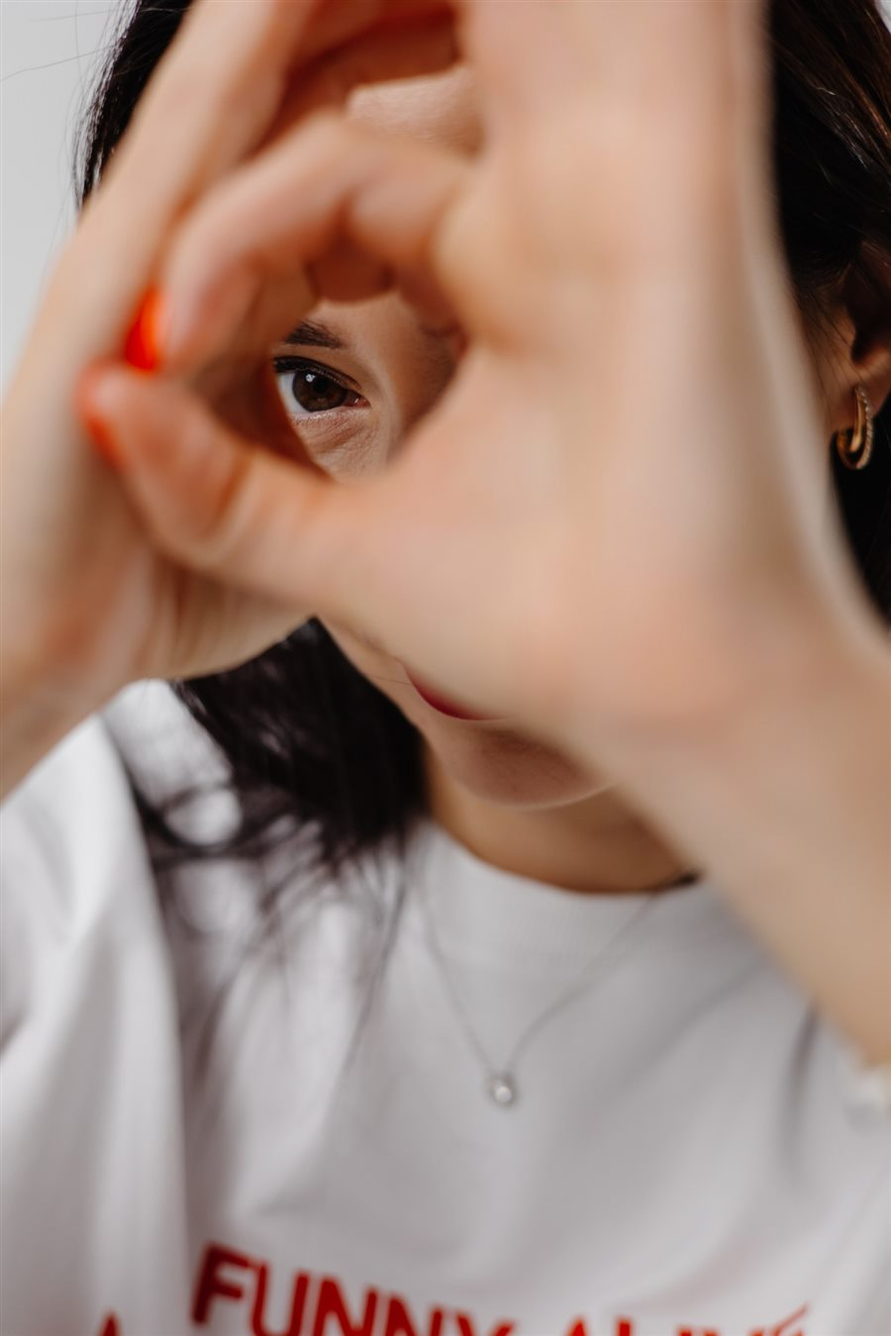
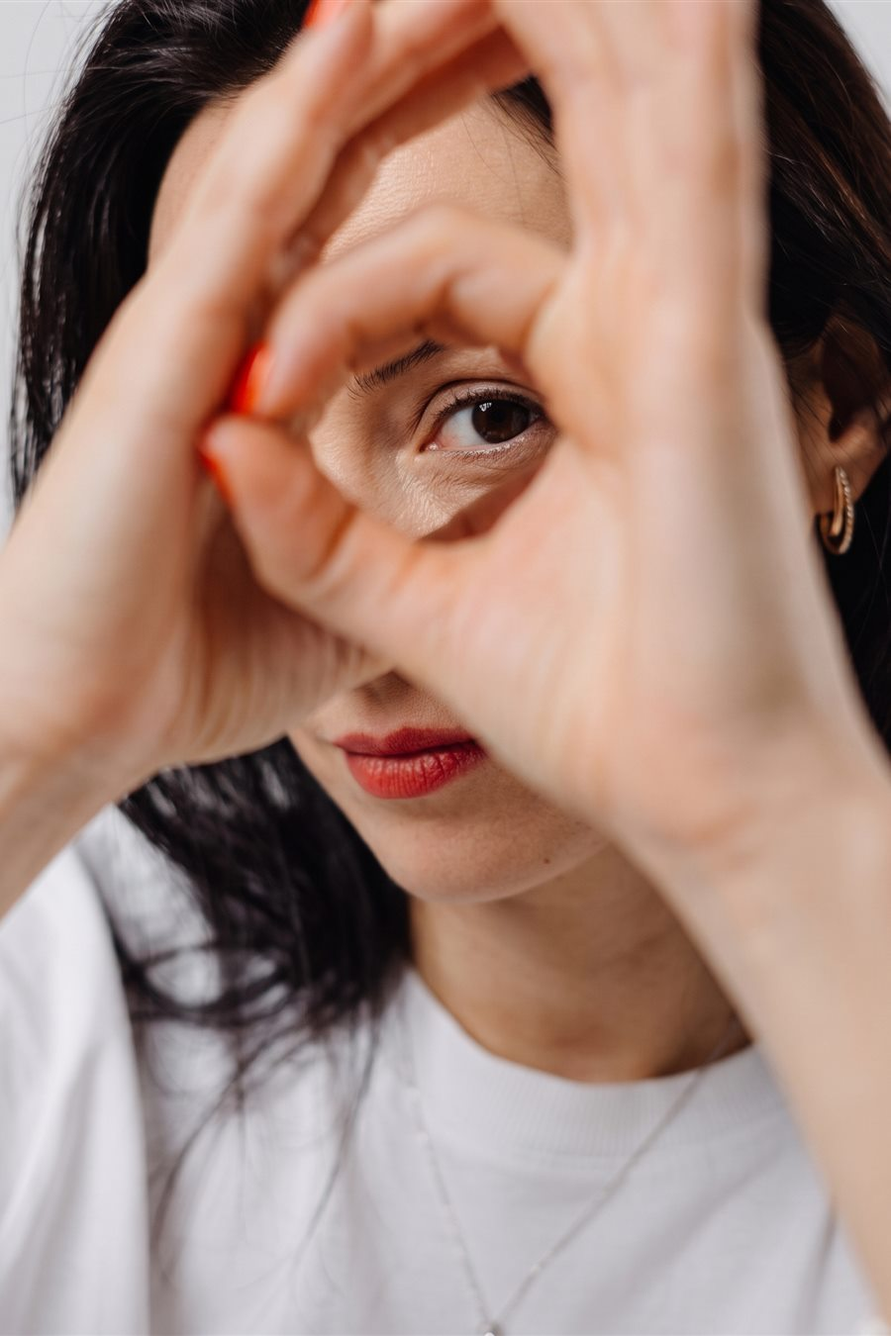
Концепт для портфоліо: «Норма Фінанс»
- Назва Happy Finance замінена на «Норма Фінанс», напис логотипа — текстом
- Імена засновниці й команди змінено, нові фото команди і засновниці
- Контакти: телефон, Telegram та Instagram Анастасії
- Прибрано блок з міні-грою (неконверсійний)
- Оновлено картинку для соцмереж

diff --git a/index.html b/index.html
@@ -3,24 +3,24 @@
 <head>
 <meta charset="utf-8">
 <meta name="viewport" content="width=device-width, initial-scale=1">
-<title>Бухгалтерський супровід ФОП і ТОВ — Happy Finance</title>
-<meta name="description" content="Happy Finance: бухгалтерський і фінансовий супровід ФОП та ТОВ. Беремо на себе облік, звітність і податки, а ви бачите реальні показники бізнесу. Підберемо формат за 1 хвилину.">
+<title>Бухгалтерський супровід ФОП і ТОВ — Норма Фінанс</title>
+<meta name="description" content="Норма Фінанс: бухгалтерський і фінансовий супровід ФОП та ТОВ. Беремо на себе облік, звітність і податки, а ви бачите реальні показники бізнесу. Підберемо формат за 1 хвилину.">
 <meta name="theme-color" content="#102662">
 <link rel="canonical" href="https://prinkovska.github.io/finance/">
 <meta property="og:type" content="website">
 <meta property="og:locale" content="uk_UA">
-<meta property="og:site_name" content="Happy Finance">
-<meta property="og:title" content="Happy Finance: бухгалтерський супровід ФОП і ТОВ">
+<meta property="og:site_name" content="Норма Фінанс">
+<meta property="og:title" content="Норма Фінанс: бухгалтерський супровід ФОП і ТОВ">
 <meta property="og:description" content="Облік, звітність і податки під ваш бізнес. Управління бізнесом починається з цифр.">
 <meta property="og:url" content="https://prinkovska.github.io/finance/">
 <meta property="og:image" content="https://prinkovska.github.io/finance/img/og-cover.jpg">
 <meta property="og:image:width" content="1200">
 <meta property="og:image:height" content="630">
 <meta name="twitter:card" content="summary_large_image">
-<meta name="twitter:title" content="Happy Finance: бухгалтерський супровід ФОП і ТОВ">
+<meta name="twitter:title" content="Норма Фінанс: бухгалтерський супровід ФОП і ТОВ">
 <meta name="twitter:description" content="Облік, звітність і податки під ваш бізнес. Управління бізнесом починається з цифр.">
 <meta name="twitter:image" content="https://prinkovska.github.io/finance/img/og-cover.jpg">
-<script type="application/ld+json">{"@context":"https://schema.org","@type":"ProfessionalService","name":"Happy Finance","description":"Бухгалтерський і фінансовий супровід ФОП та ТОВ","url":"https://prinkovska.github.io/finance/","telephone":"+380663568040","image":"https://prinkovska.github.io/finance/img/og-cover.jpg","sameAs":["https://t.me/MariiaPanchenko_ua"],"areaServed":"UA"}</script>
+<script type="application/ld+json">{"@context":"https://schema.org","@type":"ProfessionalService","name":"Норма Фінанс","description":"Бухгалтерський і фінансовий супровід ФОП та ТОВ","url":"https://prinkovska.github.io/finance/","telephone":"+380505986200","image":"https://prinkovska.github.io/finance/img/og-cover.jpg","sameAs":["https://t.me/Anactacya_stacyland"],"areaServed":"UA"}</script>
 <link rel="icon" type="image/png" sizes="32x32" href="img/favicon-32.png">
 <link rel="icon" type="image/png" sizes="64x64" href="img/favicon-64.png">
 <link rel="apple-touch-icon" href="img/favicon-180.png">
@@ -33,12 +33,12 @@
 
 <header class="top" id="top">
   <div class="top__in wrap">
-    <a class="brand" href="#hero" aria-label="Happy Finance">
+    <a class="brand" href="#hero" aria-label="Норма Фінанс">
       <span class="brand__mark" aria-hidden="true">
         <img class="brand__frame" src="img/logo-frame.png" alt="">
         <img class="brand__h" src="img/logo-h.png" alt="">
       </span>
-      <img class="brand__word" src="img/logo-word.png" alt="">
+      <span class="brand__word" aria-hidden="true">Норма<br>Фінанс</span>
     </a>
     <nav class="menu" id="menu" aria-label="Головне меню">
       <a href="#services">Послуги</a>
@@ -49,7 +49,7 @@
       <a href="#contacts">Контакти</a>
     </nav>
     <div class="top__r">
-      <a class="top__tel" href="tel:+380663568040">066-356-80-40</a>
+      <a class="top__tel" href="tel:+380505986200">050-598-62-00</a>
       <a class="btn btn--sm" href="#lead" data-open="lead">Залишити заявку</a>
       <button class="burger" id="burger" type="button" aria-label="Меню" aria-expanded="false"><span></span><span></span></button>
     </div>
@@ -110,7 +110,7 @@
       <li class="card rv" style="--d:.16s" data-n="03">
         <svg class="card__ico" viewBox="0 0 24 24" aria-hidden="true"><rect x="3" y="7" width="18" height="13"/><path d="M9 7V4h6v3M3 13h18"/></svg>
         <h3>Радить той, хто сам керував бізнесом</h3>
-        <p>Марія керувала підприємствами в&nbsp;ресторанному бізнесі, виробництві й&nbsp;дистрибуції, тому радить із&nbsp;розумінням, як&nbsp;рішення вплине на&nbsp;ваш прибуток і&nbsp;команду.</p>
+        <p>Олена керувала підприємствами в&nbsp;ресторанному бізнесі, виробництві й&nbsp;дистрибуції, тому радить із&nbsp;розумінням, як&nbsp;рішення вплине на&nbsp;ваш прибуток і&nbsp;команду.</p>
       </li>
       <li class="card rv" style="--d:.24s" data-n="04">
         <svg class="card__ico" viewBox="0 0 24 24" aria-hidden="true"><path d="M4 7h10M18 7h2M4 17h2M10 17h10"/><circle cx="16" cy="7" r="2"/><circle cx="8" cy="17" r="2"/></svg>
@@ -228,7 +228,7 @@
       <!-- TODO клієнтка: підтвердити цитату (взято з її тексту про підхід) -->
       <blockquote class="mani__q">
         <p class="mani__big" id="maniBig">«Без&nbsp;цифр управління бізнесом&nbsp;— це&nbsp;не&nbsp;управління, а&nbsp;ілюзія.»</p>
-        <footer class="mani__by rv"><b>Марія&nbsp;Панченко</b><span>засновниця Happy&nbsp;Finance</span></footer>
+        <footer class="mani__by rv"><b>Олена&nbsp;Коваленко</b><span>засновниця Норма&nbsp;Фінанс</span></footer>
       </blockquote>
     </div>
   </div>
@@ -270,39 +270,6 @@
   <i class="tab t34" style="--tc:var(--paper)" aria-hidden="true"></i>
 </section>
 
-<!-- 7. ГРА «ЗВЕДИ БАЛАНС» -->
-<section class="sec game gg" id="game">
-  <div class="gg__bg" aria-hidden="true"><div class="gg__lines"></div><div class="gg__glow"></div></div>
-  <div class="wrap game__in">
-    <div class="game__intro rv">
-      <div class="game__fig" id="gFig" aria-hidden="true"><img src="img/maria-4-fade.png" alt=""></div>
-      <p class="eyebrow">Перерва на&nbsp;хвилину</p>
-      <h2 class="h2">Зведіть <em>баланс</em></h2>
-      <p class="game__lead">Операції падають, ви&nbsp;розкладаєте їх: надходження, витрати чи&nbsp;податки. Так виглядає щоденна робота&nbsp;бухгалтера.</p>
-      <ul class="game__hud">
-        <li><span>Рахунок</span><b><i id="gScore">0</i>/15</b></li>
-        <li><span>Життя</span><b class="lives" id="gLives" aria-label="Життя"><i></i><i></i><i></i></b></li>
-      </ul>
-      <p class="game__keys">На&nbsp;комп’ютері: клавіші <kbd>1</kbd> <kbd>2</kbd> <kbd>3</kbd></p>
-    </div>
-    <div class="game__box rv" style="--d:.1s">
-      <div class="lane" id="lane">
-        <div class="lane__grid" aria-hidden="true"></div>
-        <div class="op" id="op" hidden><span class="op__t"></span><b class="op__a"></b></div>
-        <div class="lane__floor" aria-hidden="true"><span>Баланс</span></div>
-        <div class="game__screen on" id="gScreen"></div>
-      </div>
-      <div class="game__btns" id="gBtns">
-        <button type="button" data-c="income"><kbd>1</kbd>Надходження</button>
-        <button type="button" data-c="expense"><kbd>2</kbd>Витрати</button>
-        <button type="button" data-c="tax"><kbd>3</kbd>Податки</button>
-      </div>
-      <p class="sr-only" id="gLive" aria-live="polite"></p>
-    </div>
-  </div>
-  <i class="tab t66" style="--tc:var(--navy)" aria-hidden="true"></i>
-</section>
-
 <!-- 8. ПІДІБРАТИ ПАКЕТ (квіз) -->
 <section class="sec quiz" id="quiz">
   <div class="wrap quiz__in">
@@ -326,8 +293,8 @@
   <div class="gg__bg" aria-hidden="true"><div class="gg__lines"></div><div class="gg__glow"></div></div>
   <div class="wrap founder__in">
     <figure class="founder__ph rv">
-      <img src="img/maria-portrait-web.jpg" alt="Марія Панченко, засновниця Happy Finance">
-      <figcaption><b>Марія&nbsp;Панченко</b><span>засновниця Happy&nbsp;Finance</span></figcaption>
+      <img src="img/maria-portrait-web.jpg" alt="Олена Коваленко, засновниця Норма Фінанс">
+      <figcaption><b>Олена&nbsp;Коваленко</b><span>засновниця Норма&nbsp;Фінанс</span></figcaption>
     </figure>
     <div class="founder__txt">
       <p class="eyebrow rv">Засновниця</p>
@@ -360,25 +327,23 @@
     </div>
     <ul class="team__grid">
       <li class="tcard rv" data-tab="01">
-        <figure class="tcard__ph" style="--img:url(img/team-evgenia.jpg)"><img src="img/team-evgenia.jpg" alt="Євгенія Мазепа"><span class="tcard__stamp">Головний бухгалтер</span></figure>
-        <h3>Євгенія Мазепа</h3>
+        <figure class="tcard__ph" style="--img:url(img/team-iryna.jpg)"><img src="img/team-iryna.jpg" alt="Ірина Бондар"><span class="tcard__stamp">Головний бухгалтер</span></figure>
+        <h3>Ірина Бондар</h3>
         <p>Веде облік від&nbsp;первинних документів до&nbsp;звітності. Досвід у&nbsp;торгівлі, будівництві та&nbsp;на&nbsp;посаді фінансового директора.</p>
       </li>
       <li class="tcard rv" style="--d:.08s" data-tab="02">
-        <figure class="tcard__ph" style="--img:url(img/team-karyna.jpg)"><img src="img/team-karyna.jpg" alt="Карина Омельченко"><span class="tcard__stamp">Первинні документи&nbsp;·&nbsp;ПРРО</span></figure>
-        <h3>Карина Омельченко</h3>
+        <figure class="tcard__ph" style="--img:url(img/team-kateryna.jpg)"><img src="img/team-kateryna.jpg" alt="Катерина Мельник"><span class="tcard__stamp">Первинні документи&nbsp;·&nbsp;ПРРО</span></figure>
+        <h3>Катерина Мельник</h3>
         <p>Веде щоденні операції: первинні документи та&nbsp;ПРРО. Ви&nbsp;надсилаєте документи, ми&nbsp;оформлюємо їх&nbsp;без&nbsp;пропусків.</p>
       </li>
       <li class="tcard rv" style="--d:.16s" data-tab="03">
-        <!-- TODO клієнтка: додати фото Юлії -->
-        <figure class="tcard__ph tcard__mono"><span class="tcard__ini" aria-hidden="true">ЮА</span><span class="tcard__stamp">Зарплата</span></figure>
-        <h3>Юлія Авер’янова</h3>
+        <figure class="tcard__ph" style="--img:url(img/team-tetiana.jpg)"><img src="img/team-tetiana.jpg" alt="Тетяна Савчук"><span class="tcard__stamp">Зарплата</span></figure>
+        <h3>Тетяна Савчук</h3>
         <p>Понад 20&nbsp;років у&nbsp;бухгалтерії. Відповідає за&nbsp;нарахування зарплати та кадрові&nbsp;розрахунки.</p>
       </li>
       <li class="tcard rv" style="--d:.24s" data-tab="04">
-        <!-- TODO клієнтка: додати фото Надії -->
-        <figure class="tcard__ph tcard__mono"><span class="tcard__ini" aria-hidden="true">НГ</span><span class="tcard__stamp">Закупівлі ·&nbsp;первинні&nbsp;документи</span></figure>
-        <h3>Надія Гончаренко</h3>
+        <figure class="tcard__ph" style="--img:url(img/team-oksana.jpg)"><img src="img/team-oksana.jpg" alt="Оксана Литвин"><span class="tcard__stamp">Закупівлі ·&nbsp;первинні&nbsp;документи</span></figure>
+        <h3>Оксана Литвин</h3>
         <p>Керувала відділом обліку первинних документів (13&nbsp;людей у&nbsp;трьох філіях) і&nbsp;закупівлями. Допомагає навести лад у&nbsp;документах і&nbsp;поставках.</p>
       </li>
     </ul>
@@ -400,7 +365,7 @@
       <p class="eyebrow">FAQ</p>
       <h2 class="h2">Питання, які&nbsp;ставлять <em>найчастіше</em></h2>
       <p class="faq__lead">Не&nbsp;знайшли свого питання? Напишіть у&nbsp;Telegram, відповімо в&nbsp;робочий&nbsp;час.</p>
-      <a class="btn btn--ghost btn--lg" href="https://t.me/MariiaPanchenko_ua" target="_blank" rel="noopener">Написати в&nbsp;Telegram</a>
+      <a class="btn btn--ghost btn--lg" href="https://t.me/Anactacya_stacyland" target="_blank" rel="noopener">Написати в&nbsp;Telegram</a>
     </div>
     <div class="faq__list" id="faqList">
       <div class="qa rv open"><button class="qa__q" type="button" aria-expanded="true"><span>Як&nbsp;передати облік від іншого&nbsp;бухгалтера?</span><i aria-hidden="true"></i></button><div class="qa__a"><div><p>Ви&nbsp;надаєте доступ до&nbsp;документів і&nbsp;звітності, ми&nbsp;перевіряємо, що&nbsp;передано, і&nbsp;погоджуємо дату старту. З&nbsp;цієї дати облік&nbsp;ведемо&nbsp;ми.</p></div></div></div>
@@ -423,8 +388,8 @@
       <h2 class="h2">Розкажіть про&nbsp;свій&nbsp;бізнес, <em>а&nbsp;ми&nbsp;скажемо, з&nbsp;чого&nbsp;почати</em></h2>
       <p class="cta__lead rv">Залиште телефон, і&nbsp;ми&nbsp;зв’яжемося з&nbsp;вами у&nbsp;робочий час. Можна одразу написати в&nbsp;Telegram.</p>
       <ul class="cta__links rv">
-        <li><span>Телефон</span><a href="tel:+380663568040">066-356-80-40</a></li>
-        <li><span>Telegram</span><a href="https://t.me/MariiaPanchenko_ua" target="_blank" rel="noopener">@MariiaPanchenko_ua</a></li>
+        <li><span>Телефон</span><a href="tel:+380505986200">050-598-62-00</a></li>
+        <li><span>Telegram</span><a href="https://t.me/Anactacya_stacyland" target="_blank" rel="noopener">@Anactacya_stacyland</a></li>
         <li><span>Графік</span><b>Пн–Пт, до&nbsp;17:00</b></li>
       </ul>
     </div>
@@ -445,9 +410,9 @@
 <footer class="foot after-tab" id="footer">
   <div class="wrap foot__in">
     <div class="foot__brand">
-      <a class="brand brand--static" href="#hero" aria-label="Happy Finance">
+      <a class="brand brand--static" href="#hero" aria-label="Норма Фінанс">
         <span class="brand__mark" aria-hidden="true"><img src="img/logo-frame.png" alt=""><img src="img/logo-h.png" alt=""></span>
-        <img class="brand__word" src="img/logo-word.png" alt="">
+        <span class="brand__word" aria-hidden="true">Норма<br>Фінанс</span>
       </a>
       <p>Фінансово-бухгалтерський супровід ФОП&nbsp;і&nbsp;ТОВ.</p>
     </div>
@@ -455,14 +420,14 @@
       <a href="#services">Послуги</a><a href="#about">Про&nbsp;нас</a><a href="#team">Команда</a><a href="#quiz">Підібрати пакет</a><a href="#faq">FAQ</a><a href="#contacts">Контакти</a>
     </nav>
     <ul class="foot__contacts">
-      <li><a href="tel:+380663568040">066-356-80-40</a></li>
-      <li><a href="https://t.me/MariiaPanchenko_ua" target="_blank" rel="noopener">Telegram</a></li>
-      <li><a href="https://instagram.com/Mariia_Panchenko_ua" target="_blank" rel="noopener">Instagram</a></li>
+      <li><a href="tel:+380505986200">050-598-62-00</a></li>
+      <li><a href="https://t.me/Anactacya_stacyland" target="_blank" rel="noopener">Telegram</a></li>
+      <li><a href="https://www.instagram.com/anactacya_happy_stacyland/" target="_blank" rel="noopener">Instagram</a></li>
       <li>Пн–Пт, до&nbsp;17:00</li>
     </ul>
   </div>
   <div class="wrap foot__bar">
-    <span>© 2026&nbsp;Happy&nbsp;Finance</span>
+    <span>© 2026&nbsp;Норма&nbsp;Фінанс</span>
     <a href="#privacy" data-open="privacy">Політика конфіденційності</a>
   </div>
 </footer>
@@ -490,7 +455,7 @@
     <label>Телефон<input name="phone" type="tel" autocomplete="tel" inputmode="tel" placeholder="+380" required></label>
     <p class="modal__err" id="leadErr" hidden>Вкажіть, будь ласка, ім’я&nbsp;та&nbsp;телефон у&nbsp;форматі&nbsp;+380…</p>
     <button class="btn btn--lg" type="submit">Надіслати</button>
-    <a class="modal__tg" href="https://t.me/MariiaPanchenko_ua" target="_blank" rel="noopener">Або напишіть у&nbsp;Telegram</a>
+    <a class="modal__tg" href="https://t.me/Anactacya_stacyland" target="_blank" rel="noopener">Або напишіть у&nbsp;Telegram</a>
     <div class="modal__ok" id="leadOk" hidden><b>Дякуємо!</b><span>Ми&nbsp;зв’яжемося з&nbsp;вами у&nbsp;робочий&nbsp;час.</span></div>
   </form>
 </div>
@@ -519,11 +484,11 @@
 </div>
 
 <nav class="fab" id="fab" aria-label="Швидкий зв'язок">
-  <a class="fab__b fab__b--tg" href="https://t.me/MariiaPanchenko_ua" target="_blank" rel="noopener" aria-label="Написати в Telegram">
+  <a class="fab__b fab__b--tg" href="https://t.me/Anactacya_stacyland" target="_blank" rel="noopener" aria-label="Написати в Telegram">
     <svg viewBox="0 0 24 24" aria-hidden="true"><path d="M21 4 3 11l5.5 2L10 19l3-3.5 4.5 3.3L21 4Z"/><path d="m8.5 13 8-5.5"/></svg><span>Telegram</span>
   </a>
-  <a class="fab__b fab__b--tel" href="tel:+380663568040" aria-label="Зателефонувати">
-    <svg viewBox="0 0 24 24" aria-hidden="true"><path d="M5 4h4l2 5-2.5 1.5a11 11 0 0 0 5 5L15 13l5 2v4a2 2 0 0 1-2 2A16 16 0 0 1 3 6a2 2 0 0 1 2-2Z"/></svg><span>066-356-80-40</span>
+  <a class="fab__b fab__b--tel" href="tel:+380505986200" aria-label="Зателефонувати">
+    <svg viewBox="0 0 24 24" aria-hidden="true"><path d="M5 4h4l2 5-2.5 1.5a11 11 0 0 0 5 5L15 13l5 2v4a2 2 0 0 1-2 2A16 16 0 0 1 3 6a2 2 0 0 1 2-2Z"/></svg><span>050-598-62-00</span>
   </a>
 </nav>
 <script src="script.js?v=61"></script>

diff --git a/script.js b/script.js
@@ -5,7 +5,7 @@ const NB_RE = /(^|[^\p{L}\p{N}])(в|у|і|й|з|із|зі|та|на|до|по|з
 const nb = s => {
   let r = String(s);
   for (let i = 0; i < 3; i++) r = r.replace(NB_RE, '$1$2\u00a0');
-  return r.replace(/(\d+) (?=\p{L})/gu, '$1\u00a0').replace(/Happy Finance/g, 'Happy\u00a0Finance').replace(/(\S) (\p{L}{1,3}[.?!…:]?)(\s*)$/u, '$1\u00a0$2$3')
+  return r.replace(/(\d+) (?=\p{L})/gu, '$1\u00a0').replace(/Норма Фінанс/g, 'Норма\u00a0Фінанс').replace(/(\S) (\p{L}{1,3}[.?!…:]?)(\s*)$/u, '$1\u00a0$2$3')
     .replace(/^(?=(?:\S+\s+){3,}\S)(.*?)(\S+) (\S+)(\s*)$/su, '$1$2\u00a0$3$4');
 };
 const nbHtml = h => h.replace(/>([^<>]+)</g, (m, t) => '>' + nb(t) + '<');
@@ -327,7 +327,7 @@ addEventListener('scroll', onScroll, { passive: true }); addEventListener('resiz
     op.classList.add(ok ? 'ok' : 'bad');
     if (!ok && wrongNote) op.querySelector('.op__t').textContent = cur.t + ' → ' + LABEL[cur.c];
     live.textContent = ok ? 'Вірно' : 'Невірно: ' + LABEL[cur.c];
-    const fig = $('#gFig');                          // Марія реагує: підстрибує на вірну відповідь, хитає головою на помилку
+    const fig = $('#gFig');                          // Олена реагує: підстрибує на вірну відповідь, хитає головою на помилку
     if (fig) { fig.classList.remove('happy', 'oops'); void fig.offsetWidth; fig.classList.add(ok ? 'happy' : 'oops'); }
     paint(); idx++;
     setTimeout(() => { op.hidden = true; next(); }, ok ? 380 : 1000);
@@ -367,7 +367,7 @@ addEventListener('scroll', onScroll, { passive: true }); addEventListener('resiz
     { q: 'Що зараз найважливіше?', o: ['Облік і звітність без клопоту', 'Зарплата й кадри', 'Цифри для управління бізнесом', 'Навести лад у процесах і документах'] }
   ];
   let step = 0, ans = [];
-  const TG = 'https://t.me/MariiaPanchenko_ua', TEL = 'tel:+380663568040';
+  const TG = 'https://t.me/Anactacya_stacyland', TEL = 'tel:+380505986200';
 
   function render() {
     stepEl.textContent = `Питання ${step + 1} з ${Q.length}`;
@@ -385,7 +385,7 @@ addEventListener('scroll', onScroll, { passive: true }); addEventListener('resiz
     const list = [...new Set(items)];
     const lc = s => s[0].toLowerCase() + s.slice(1);
     const profile = `${Q[0].o[b]}, ${lc(Q[1].o[tx])}, ${lc(Q[2].o[team])}`;
-    const text = `Доброго дня! Пройшов(ла) підбір пакета на сайті Happy Finance. Про мене: ${profile}. Найважливіше: ${lc(Q[3].o[goal])}. Хочу обговорити формат супроводу.`;
+    const text = `Доброго дня! Пройшов(ла) підбір пакета на сайті Норма Фінанс. Про мене: ${profile}. Найважливіше: ${lc(Q[3].o[goal])}. Хочу обговорити формат супроводу.`;
     body.innerHTML = `<div class="quiz__res"><h3>Ваш формат супроводу</h3><p class="quiz__sum">${nb(profile)}</p><ul class="quiz__list">${list.map((t, i) => `<li style="--i:${i}">${nb(t)}</li>`).join('')}</ul><div class="quiz__act"><a class="btn btn--lg" href="${TG}?text=${encodeURIComponent(text)}" target="_blank" rel="noopener">Написати в Telegram</a><a class="btn btn--ghost btn--lg quiz__tel" href="${TEL}">Зателефонувати</a></div><p class="quiz__note">${nb('Склад і вартість уточнимо після короткої розмови. Це попередній підбір.')}</p></div>`;
   }
   body.addEventListener('click', e => {
@@ -456,13 +456,13 @@ document.querySelectorAll('[data-count]').forEach(el => {
   const modal = $('#lead'); if (!modal) return;
   const form = $('#leadForm'), err = $('#leadErr'), ok = $('#leadOk');
   let opener = null;
-  const svcEl = $('#leadSvc'), tg = modal.querySelector('.modal__tg'), TG = 'https://t.me/MariiaPanchenko_ua';
+  const svcEl = $('#leadSvc'), tg = modal.querySelector('.modal__tg'), TG = 'https://t.me/Anactacya_stacyland';
   const open = el => {
     opener = el; modal.hidden = false; document.body.classList.add('lock');
     form.reset(); err.hidden = true; ok.hidden = true; form.querySelector('.btn').hidden = false;
     const svc = (el && el.dataset.service) || '';   // назва послуги, якщо відкрили з блоку «Послуги»
     svcEl.hidden = !svc; svcEl.textContent = svc ? 'Послуга: ' + svc : '';
-    tg.href = svc ? TG + '?text=' + encodeURIComponent('Доброго дня! Цікавить послуга на сайті Happy Finance: ' + svc + '. Хочу обговорити.') : TG;
+    tg.href = svc ? TG + '?text=' + encodeURIComponent('Доброго дня! Цікавить послуга на сайті Норма Фінанс: ' + svc + '. Хочу обговорити.') : TG;
     setTimeout(() => form.elements.name.focus(), 50);
   };
   const close = () => { modal.hidden = true; document.body.classList.remove('lock'); opener && opener.focus && opener.focus(); };
@@ -613,7 +613,7 @@ document.querySelectorAll('.btn:not(.btn--ghost):not(.btn--sm)').forEach(b => b.
 
 /* ================= ЗАВЕРШАЛЬНІ БЛОКИ ================= */
 
-/* ---------- Марія: лічильники ×4 та ~300 ---------- */
+/* ---------- Олена: лічильники ×4 та ~300 ---------- */
 (() => {
   const els = [...document.querySelectorAll('[data-to]')]; if (!els.length) return;
   const run = el => {
@@ -681,7 +681,7 @@ document.querySelectorAll('.btn:not(.btn--ghost):not(.btn--sm)').forEach(b => b.
   const dr = $('#drawer'); if (!dr) return;
   // TODO клієнтка: підтвердити тексти з кожною людиною. Лише професійні факти з наданих документів.
   const TEAM = [
-    { n: 'Євгенія Мазепа', role: 'Головний бухгалтер', img: 'img/team-evgenia.jpg',
+    { n: 'Ірина Бондар', role: 'Головний бухгалтер', img: 'img/team-iryna.jpg',
       lead: 'Веде бухгалтерію від первинних документів до звітності й знає бізнес з боку фінансового директора.',
       path: [
         ['Автомагазин', 'Менеджер і первинна бухгалтерія, допомога в розмитненні вантажів.'],
@@ -691,15 +691,15 @@ document.querySelectorAll('.btn:not(.btn--ghost):not(.btn--sm)').forEach(b => b.
         ['Фінансовий менеджер', 'Керувала грошовими потоками в нішевій сфері.']
       ],
       tags: ['Первинні документи', 'Податкова звітність', 'ТОВ і ФОП', 'Звірки з податковою', 'Управлінський облік'] },
-    { n: 'Карина Омельченко', role: 'Первинні документи, ПРРО', img: 'img/team-karyna.jpg',
+    { n: 'Катерина Мельник', role: 'Первинні документи, ПРРО', img: 'img/team-kateryna.jpg',
       lead: 'Веде щоденні операції: первинні документи та ПРРО. Ви надсилаєте документи, ми оформлюємо їх без пропусків.',
       path: [
         ['Роздрібна торгівля', 'Продавець, потім адміністратор.'],
         ['Агросектор', 'Бухгалтер у компанії аграрного напряму.'],
-        ['Happy\u00a0Finance', 'Первинні документи та ПРРО.']
+        ['Норма\u00a0Фінанс', 'Первинні документи та ПРРО.']
       ],
       tags: ['Первинні документи', 'ПРРО', 'Щоденні операції', 'Роздрібна торгівля'] },
-    { n: 'Юлія Авер’янова', role: 'Зарплата', ini: 'ЮА',
+    { n: 'Тетяна Савчук', role: 'Зарплата', img: 'img/team-tetiana.jpg',
       lead: 'Понад 20 років у бухгалтерії. Відповідає за нарахування зарплати та кадрові розрахунки.',
       path: [
         ['Початок шляху', 'Касир, потім головний бухгалтер на невеликому підприємстві.'],
@@ -707,7 +707,7 @@ document.querySelectorAll('.btn:not(.btn--ghost):not(.btn--sm)').forEach(b => b.
         ['Понад 15 років в одній компанії', 'Бухгалтер із дипломом спеціаліста.']
       ],
       tags: ['Зарплата', 'Кадрові розрахунки', 'Понад 20 років досвіду'] },
-    { n: 'Надія Гончаренко', role: 'Закупівлі, первинні документи', ini: 'НГ',
+    { n: 'Оксана Литвин', role: 'Закупівлі, первинні документи', img: 'img/team-oksana.jpg',
       lead: 'Керувала відділом обліку первинних документів і закупівлями. Допомагає навести лад у документах і поставках.',
       path: [
         ['Роздрібна мережа', 'Менеджер із закупівель: асортимент, ціноутворення, акції, переговори з постачальниками, документообіг.'],
@@ -764,7 +764,7 @@ document.querySelectorAll('.btn:not(.btn--ghost):not(.btn--sm)').forEach(b => b.
   });
 })();
 
-/* ---------- FAQ: ширина Марії від ліктя до ліктя = ширина найдовшого рядка заголовка ---------- */
+/* ---------- FAQ: ширина Олени від ліктя до ліктя = ширина найдовшого рядка заголовка ---------- */
 (() => {
   const fig = $('.faq__fig'), h2 = $('.faq__head .h2'); if (!fig || !h2) return;
   const fit = () => {

diff --git a/style.css b/style.css
@@ -59,7 +59,7 @@ img{display:block}
 @property --w{syntax:'<percentage>';inherits:false;initial-value:0%}
 .brand__frame{--a:0deg;-webkit-mask-image:conic-gradient(#000 var(--a),transparent calc(var(--a) + .5deg));mask-image:conic-gradient(#000 var(--a),transparent calc(var(--a) + .5deg));animation:ring 1.5s .3s cubic-bezier(.5,0,.3,1) both}
 .brand__h{--w:0%;-webkit-mask-image:linear-gradient(90deg,#000 var(--w),transparent calc(var(--w) + 14%));mask-image:linear-gradient(90deg,#000 var(--w),transparent calc(var(--w) + 14%));animation:wipe 1.3s 1.5s cubic-bezier(.5,0,.3,1) both}
-.brand__word{height:38px;width:auto;animation:word .9s 2.5s both}
+.brand__word{display:block;font-family:var(--f-head);font-weight:800;font-size:17px;line-height:.98;letter-spacing:.05em;text-transform:uppercase;color:#fff;white-space:nowrap;animation:word .9s 2.5s both}
 @keyframes ring{from{--a:0deg}to{--a:361deg}}
 @keyframes wipe{from{--w:0%}to{--w:100%}}
 @keyframes word{from{opacity:0;transform:translateX(-8px)}}
@@ -113,7 +113,7 @@ img{display:block}
   :root{--G:80px;--ind:0px}
   .hero{--r:190px}
   .hint{top:84px;font-size:.68rem}
-  .brand__mark{width:38px;height:38px}.brand__word{height:32px}
+  .brand__mark{width:38px;height:38px}.brand__word{font-size:14.5px}
   .title{font-size:clamp(1.55rem,8vw,2.4rem);margin-bottom:18px}
   .lead{font-size:.95rem;margin-bottom:22px}
   .cta{flex-direction:column}.cta .btn{text-align:center}

diff --git a/404.html b/404.html
@@ -4,7 +4,7 @@
 <meta charset="utf-8">
 <meta name="viewport" content="width=device-width, initial-scale=1">
 <meta name="robots" content="noindex">
-<title>Сторінку не знайдено — Happy Finance</title>
+<title>Сторінку не знайдено — Норма Фінанс</title>
 <link rel="icon" type="image/png" sizes="32x32" href="/finance/img/favicon-32.png">
 <link rel="preconnect" href="https://fonts.googleapis.com">
 <link rel="preconnect" href="https://fonts.gstatic.com" crossorigin>
